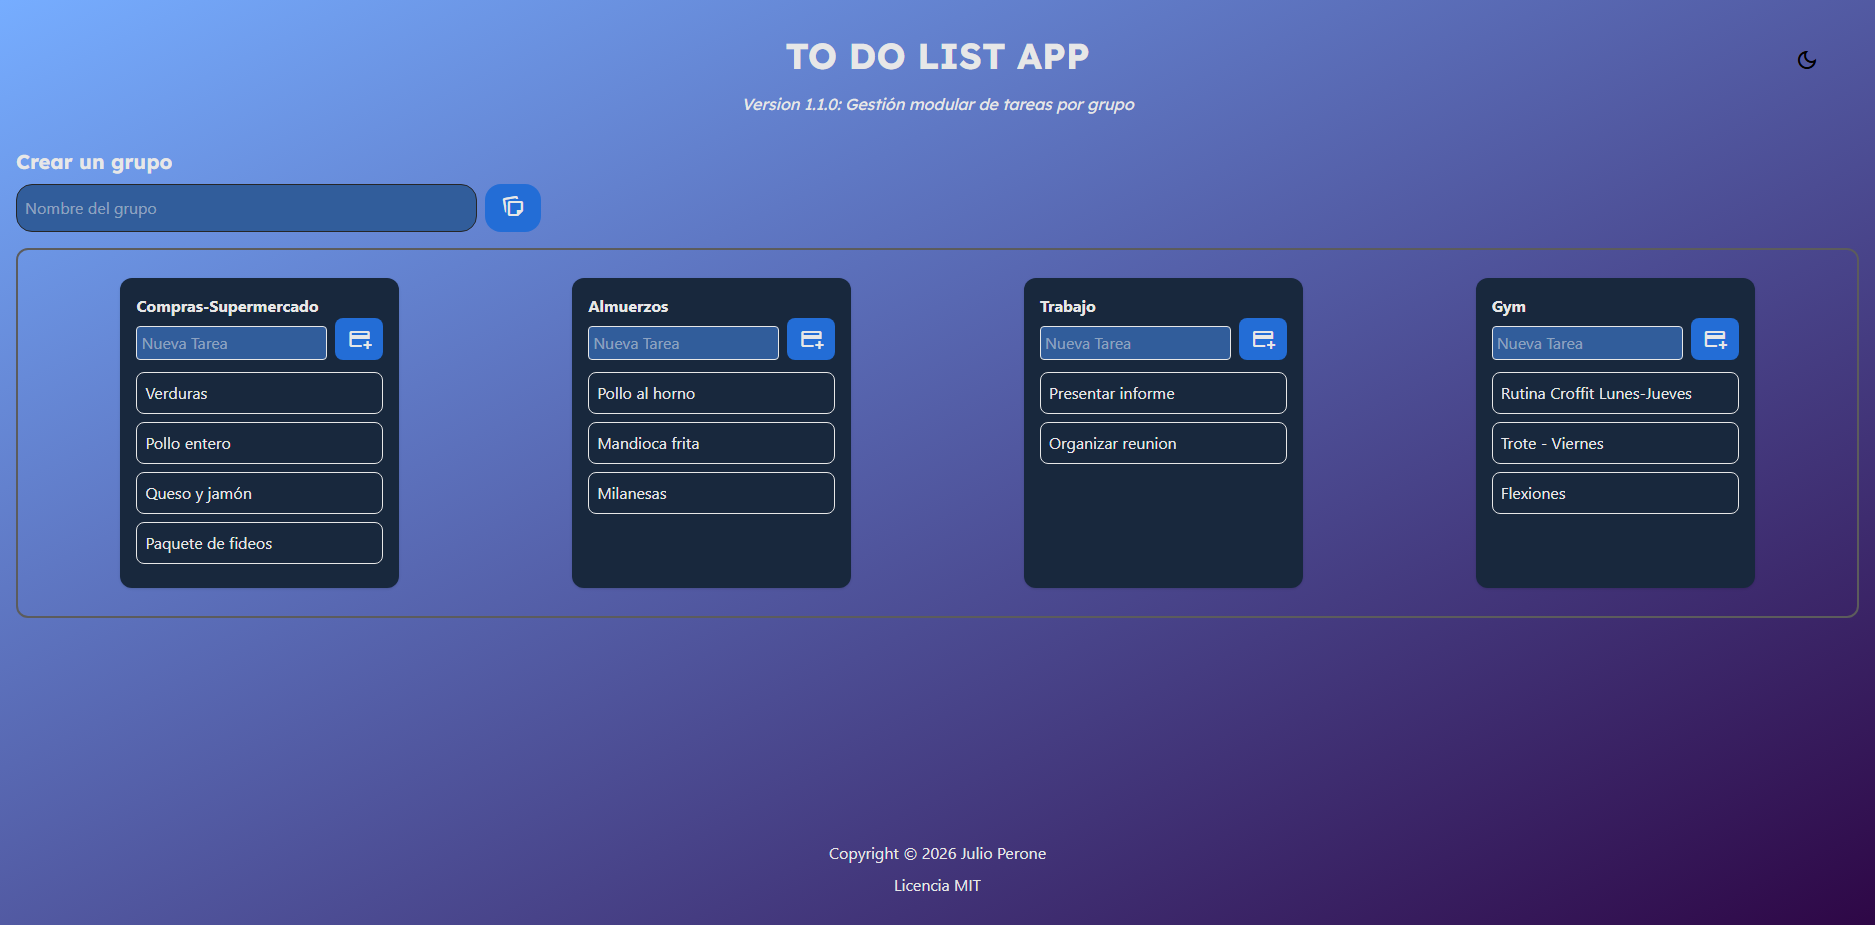
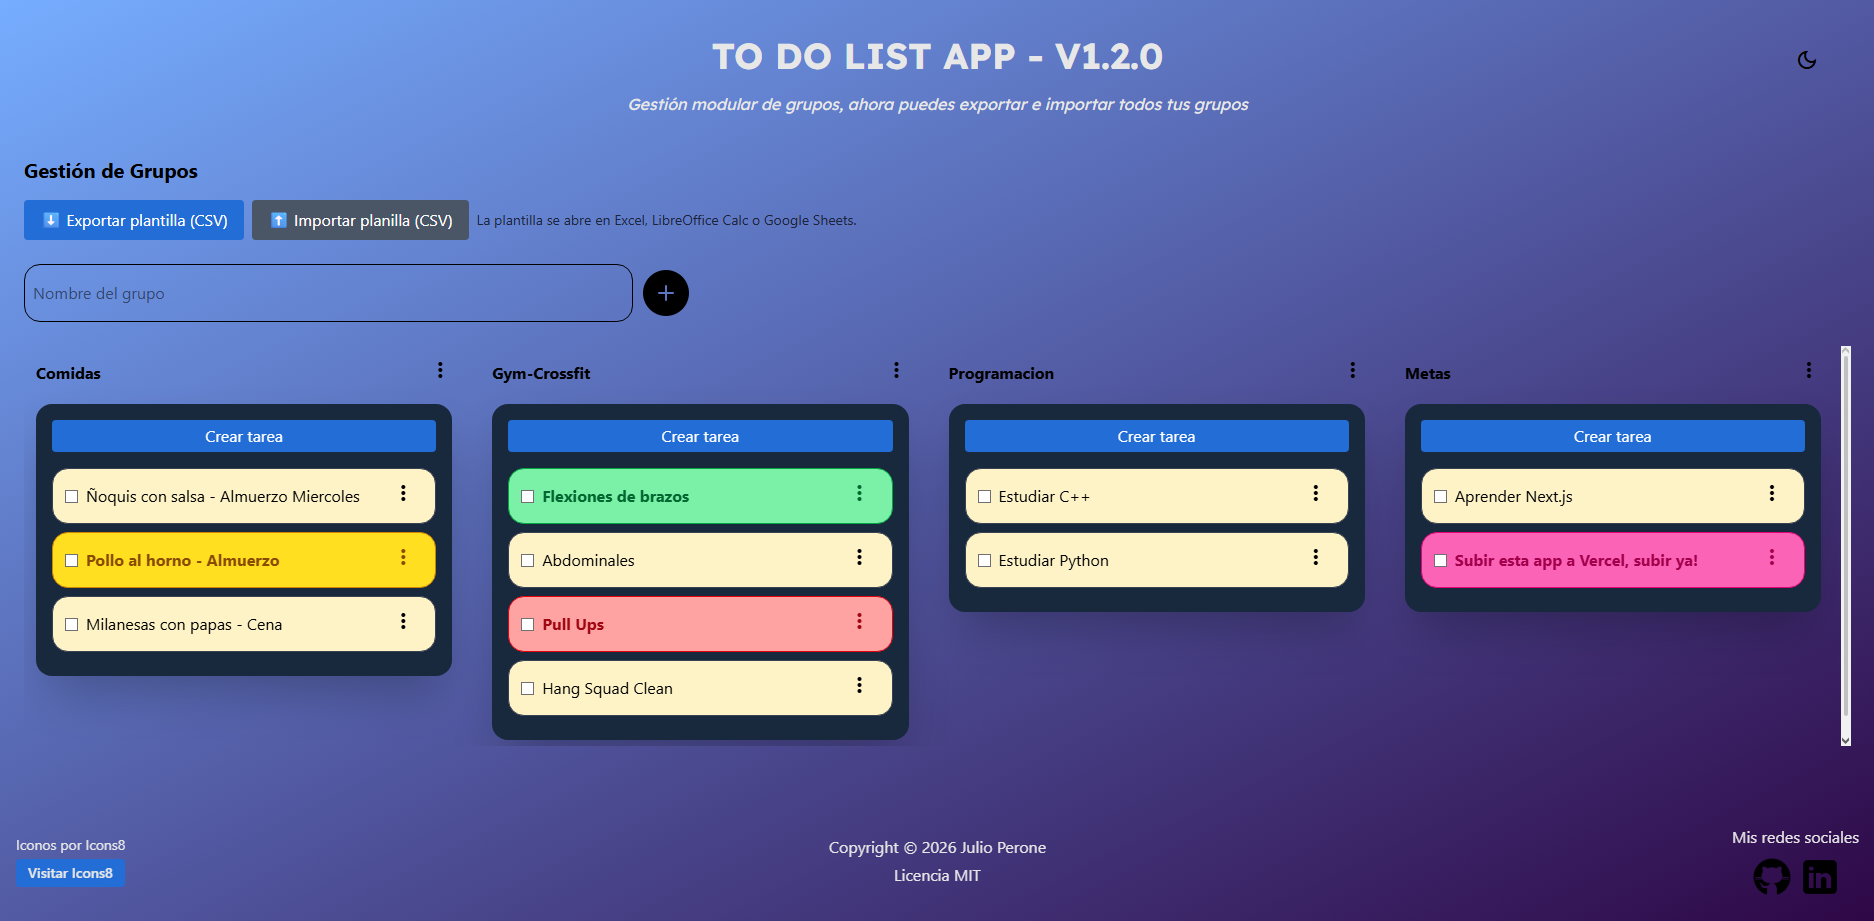
Docs v1.2.0: Header actualizado, Instalacion y uso + Roadmap v1.3.0

diff --git a/src/components/TaskItem.tsx b/src/components/TaskItem.tsx
@@ -1,3 +1,4 @@
+import { useState } from "react";
 import TaskMenu from "./TaskMenu";
 import type { Task, Group, TaskAction } from "../types/contracts";
 
@@ -17,15 +18,44 @@ const TaskItem = ({ task, groupId, groups, dispatchTasks }: Props) => {
         "very important": "bg-pink-400 border-pink-600 text-pink-800 font-bold",
     };
 
-    const styleClass = task.priority
-        ? priorityStyles[task.priority as keyof typeof priorityStyles]
-        : "task-default";
+    // Al completar, el gris neutro reemplaza el tono de la prioridad.
+    // Al desmarcar, vuelve automáticamente el color de la prioridad.
+    const completedStyle =
+        "bg-neutral-200 border-neutral-400 text-neutral-500";
+
+    const styleClass = task.completed
+        ? completedStyle
+        : task.priority
+          ? priorityStyles[task.priority as keyof typeof priorityStyles]
+          : "task-default";
+
+    const [isEditing, setIsEditing] = useState(false);
+    const [draft, setDraft] = useState(task.title);
+
+    const handleStartEdit = () => {
+        setDraft(task.title);
+        setIsEditing(true);
+    };
+
+    const handleSaveEdit = () => {
+        if (!draft.trim()) return;
+        dispatchTasks({
+            type: "EDIT_TASK",
+            payload: { groupId, taskId: task.id, title: draft.trim() },
+        });
+        setIsEditing(false);
+    };
+
+    const handleCancelEdit = () => {
+        setDraft(task.title);
+        setIsEditing(false);
+    };
 
     return (
         <div
             className={`flex items-center justify-between border rounded-2xl p-3 mb-2 transition-all duration-300 ease-in-out animate-fadeIn ${styleClass}`}
         >
-            <div className="flex items-center gap-2">
+            <div className="flex items-center gap-2 flex-1">
                 <input
                     type="checkbox"
                     checked={task.completed}
@@ -33,17 +63,47 @@ const TaskItem = ({ task, groupId, groups, dispatchTasks }: Props) => {
                         dispatchTasks({ type: "TOGGLE_TASK", payload: { groupId, taskId: task.id } })
                     }
                 />
-                <span className={`${task.completed ? "line-through opacity-60" : ""}`}>
-                    {task.title}
-                </span>
+                {isEditing ? (
+                    <>
+                        <input
+                            value={draft}
+                            autoFocus
+                            onChange={(e) => setDraft(e.target.value)}
+                            onKeyDown={(e) => {
+                                if (e.key === "Enter") handleSaveEdit();
+                                if (e.key === "Escape") handleCancelEdit();
+                            }}
+                            className="border rounded p-1 w-full text-black"
+                        />
+                        <button
+                            onClick={handleSaveEdit}
+                            className="surface-skin text-white px-2 py-1 rounded text-sm"
+                        >
+                            Guardar
+                        </button>
+                        <button
+                            onClick={handleCancelEdit}
+                            className="bg-gray-400 text-black px-2 py-1 rounded text-sm"
+                        >
+                            Cancelar
+                        </button>
+                    </>
+                ) : (
+                    <span className={`${task.completed ? "line-through decoration-2 opacity-70" : ""}`}>
+                        {task.title}
+                    </span>
+                )}
             </div>
 
-            <TaskMenu
-                task={task}
-                groupId={groupId}
-                groups={groups}
-                dispatchTasks={dispatchTasks}
-            />
+            {!isEditing && (
+                <TaskMenu
+                    task={task}
+                    groupId={groupId}
+                    groups={groups}
+                    dispatchTasks={dispatchTasks}
+                    onEdit={handleStartEdit}
+                />
+            )}
         </div>
     );
 };

diff --git a/src/components/TaskMenu.tsx b/src/components/TaskMenu.tsx
@@ -7,9 +7,10 @@ type Props = {
     groupId: string;
     groups: Group[];
     dispatchTasks: React.Dispatch<TaskAction>;
+    onEdit: () => void;
 };
 
-const TaskMenu = ({ task, groupId, groups, dispatchTasks }: Props) => {
+const TaskMenu = ({ task, groupId, groups, dispatchTasks, onEdit }: Props) => {
     const [open, setOpen] = useState(false);
     const [moveOpen, setMoveOpen] = useState(false);
     const [priorityOpen, setPriorityOpen] = useState(false);
@@ -36,10 +37,18 @@ const TaskMenu = ({ task, groupId, groups, dispatchTasks }: Props) => {
     };
 
     const handleSetPriority = (priority: "low" | "medium" | "high" | "very important") => {
-        dispatchTasks({
-            type: "SET_PRIORITY_TASK",
-            payload: { groupId, taskId: task.id, priority },
-        });
+        // Toggle: si ya tiene esa prioridad, se le quita y vuelve a normal
+        if (task.priority === priority) {
+            dispatchTasks({
+                type: "CLEAR_PRIORITY_TASK",
+                payload: { groupId, taskId: task.id },
+            });
+        } else {
+            dispatchTasks({
+                type: "SET_PRIORITY_TASK",
+                payload: { groupId, taskId: task.id, priority },
+            });
+        }
         setPriorityOpen(false);
         setOpen(false);
     };
@@ -155,14 +164,12 @@ const TaskMenu = ({ task, groupId, groups, dispatchTasks }: Props) => {
                        p-2 flex flex-col gap-2 animate-slideIn transition-all duration-200
                        overflow-visible"
                         >
-                            {/* Editar */}
+                            {/* Editar: cierra el menú y abre el input inline en la tarea */}
                             <button
-                                onClick={() =>
-                                    dispatchTasks({
-                                        type: "EDIT_TASK",
-                                        payload: { groupId, taskId: task.id, title: "Nuevo título" },
-                                    })
-                                }
+                                onClick={() => {
+                                    closeAll();
+                                    onEdit();
+                                }}
                                 className="flex items-center gap-2 w-full text-left px-2 py-1 hover:bg-neutral-700 rounded"
                             >
                                 <span className="material-symbols-outlined text-sm">edit</span>

diff --git a/src/components/Footer.tsx b/src/components/Footer.tsx
@@ -2,7 +2,7 @@
 const Footer = () => {
   return (
     <footer className="flex flex-col md:flex-row justify-between items-center gap-4 mb-3 p-4 text-skin">
-      {/* Izquierda: Icons8 link */}
+      
       <div className="flex flex-col items-center md:items-start gap-1 md:w-1/3">
         <p className="text-sm">Iconos por Icons8</p>
         <a
@@ -14,22 +14,22 @@ const Footer = () => {
         </a>
       </div>
 
-      {/* Centro: Copyright + Licencia */}
+      
       <div className="flex flex-col items-center gap-1 text-center md:w-1/3">
         <h1>Copyright © 2026 Julio Perone</h1>
         <p>Licencia MIT</p>
       </div>
 
-      {/* Derecha: Mis redes sociales */}
+      
       <div className="flex flex-col items-center md:items-end gap-2 md:w-1/3">
         <div className="flex flex-col items-center gap-2">
           <p className="text-center">Mis redes sociales</p>
           <div className="flex justify-center gap-2">
-            <a href="" target="_blank" aria-label="Github">
+            <a href="https://github.com/JulioPerone" target="_blank" rel="noopener noreferrer" aria-label="Github">
               <img src="https://img.icons8.com/?size=100&id=12599&format=png&color=000000"
               width="40" height="40" alt="Github icon" />
             </a>
-            <a href="" target="_blank" aria-label="LinkedIn">
+            <a href="https://www.linkedin.com/in/julio-josé-perone-rocholl-341188348" target="_blank" rel="noopener noreferrer" aria-label="LinkedIn">
               <img src="https://img.icons8.com/?size=100&id=8808&format=png&color=000000"
               width="40" height="40" alt="LinkedIn icon" />
             </a>

diff --git a/src/hooks/useTasksReducer.ts b/src/hooks/useTasksReducer.ts
@@ -46,6 +46,9 @@ const useTasksReducer = (state: TasksState, action: TaskAction): TasksState => {
         case "MOVE_TASK": {
             const { fromGroupId, toGroupId, taskId } = action.payload;
 
+            // Mover al mismo grupo: no hacer nada (evita duplicar)
+            if (fromGroupId === toGroupId) return state;
+
             // Buscar la tarea en el grupo origen
             const taskToMove = state[fromGroupId]?.find(t => t.id === taskId);
             if (!taskToMove) return state;
@@ -69,6 +72,17 @@ const useTasksReducer = (state: TasksState, action: TaskAction): TasksState => {
                 [action.payload.groupId]: (state[action.payload.groupId] || []).map(t =>
                     t.id === action.payload.taskId ? { ...t, priority: action.payload.priority } : t
                 )
+            };
+
+        case "CLEAR_PRIORITY_TASK":
+            return {
+                ...state,
+                [action.payload.groupId]: (state[action.payload.groupId] || []).map(t => {
+                    if (t.id !== action.payload.taskId) return t;
+                    const next = { ...t };
+                    delete next.priority;
+                    return next;
+                })
             };
 
         case "DELETE_GROUP_TASKS": {

diff --git a/src/context/ThemeProvider.tsx b/src/context/ThemeProvider.tsx
@@ -3,12 +3,26 @@
 import { useState, useEffect } from "react"
 import { ThemeContext } from "./ThemeContext"
 import type { Theme } from "../types/ThemeType"
+import { loadJSON, saveJSON, STORAGE_KEYS } from "../utils/storage"
+
+const isTheme = (value: unknown): value is Theme =>
+    value === "light" || value === "dark";
+
+const loadTheme = (): Theme => {
+    const stored = loadJSON<unknown>(STORAGE_KEYS.theme, "light");
+    return isTheme(stored) ? stored : "light";
+};
 
 const ThemeProvider = ({ children }: { children: React.ReactNode }) => {
 
-    const [theme, setTheme] = useState<Theme>("light")
+    const [theme, setTheme] = useState<Theme>(loadTheme)
 
     const toggleTheme = () => setTheme(theme === "light" ? "dark" : "light");
+
+    // Persiste el tema para que sobreviva al refrescar
+    useEffect(() => {
+        saveJSON(STORAGE_KEYS.theme, theme);
+    }, [theme]);
 
     // Aplica o remueve la clase "dark" en el <html> según el estado actual del tema
     useEffect(() => {

diff --git a/index.html b/index.html
@@ -3,6 +3,15 @@
 
 <head>
   <meta charset="UTF-8" />
+  <script>
+    // Aplica el tema guardado ANTES del primer pintado para evitar
+    // el parpadeo light -> dark al recargar (debe coincidir con STORAGE_KEYS.theme).
+    try {
+      if (localStorage.getItem("todolist.theme.v1") === '"dark"') {
+        document.documentElement.classList.add("dark");
+      }
+    } catch (e) { /* LocalStorage no disponible: se queda en light */ }
+  </script>
   <meta name="description" content="Task Manager app para crear, organizar y gestionar tareas de forma simple y rápida.">
   <meta name="keywords" content="task manager, gestor de tareas, productividad, organización, React, TypeScript">
   <meta name="author" content="Julio Perone">

diff --git a/src/components/Header.tsx b/src/components/Header.tsx
@@ -6,8 +6,8 @@ const Header = () => {
     return (
         <div className="relative flex flex-col 
         justify-center items-center gap-4 mt-5 p-4">
-            <h1 className="font-lexend font-bold  text-skin text-4xl uppercase">To Do List App</h1>
-            <p className="font-lexend italic text-skin">Version 1.2.0: Gestión modular de tareas por grupo</p>
+            <h1 className="font-lexend font-bold  text-skin text-4xl uppercase">To Do List App - v1.2.0</h1>
+            <p className="font-lexend italic text-skin">Gestión modular de grupos, ahora puedes exportar e importar todos tus grupos</p>
             <DarkLightTheme />
         </div>
     )

diff --git a/src/types/contracts.ts b/src/types/contracts.ts
@@ -32,6 +32,7 @@ export type TaskAction =
 | { type: "TOGGLE_TASK"; payload: { groupId: string; taskId: string }}
 | { type: "MOVE_TASK"; payload: { fromGroupId: string; toGroupId: string; taskId: string }}
 | { type: "SET_PRIORITY_TASK"; payload: { groupId: string; taskId: string; priority: "low" | "medium" | "high" | "very important" }}
+| { type: "CLEAR_PRIORITY_TASK"; payload: { groupId: string; taskId: string }}
 | { type: "DELETE_GROUP_TASKS"; payload: { groupId: string } }
 | { type: "HYDRATE_TASKS"; payload: { tasks: Record<string, Task[]> } }
 | { type: "SET_TASKS"; payload: { tasks: Record<string, Task[]> } }

diff --git a/src/components/TaskManager.tsx b/src/components/TaskManager.tsx
@@ -30,7 +30,7 @@ const TaskManager = ({ groupId, groups }: { groupId: string; groups: Group[] }) 
                         value={newTaskTitle}
                         onChange={(e) => setNewTaskTitle(e.target.value)}
                         placeholder="Nombre de tarea"
-                        className="border rounded p-2 w-full"
+                        className="border rounded p-2 w-full input-skin"
                     />
                     <div className="flex gap-2">
                         <button

diff --git a/src/globals.css b/src/globals.css
@@ -6,7 +6,7 @@
   --accent-color: #ffe816;
   --surface-color: #dd8819;
   --inner-color: #ffda89;
-  --input-field: #fffcee;
+  --input-field: #fff6cd;
   --hover-color: #e6bc4c;
   --task-bg-default: #fef3c7;
 }
@@ -18,7 +18,7 @@
   --accent-color: #226bc5;
   --surface-color: #236dd6;
   --inner-color: #18283d;
-  --input-field: #315d9b;
+  --input-field: #5b82b8;
   --hover-color: #4585df;
   --task-border-default: #374151;
 }

diff --git a/src/utils/storage.ts b/src/utils/storage.ts
@@ -1,6 +1,7 @@
 export const STORAGE_KEYS = {
   groups: "todolist.groups.v1",
   tasks: "todolist.tasks.v1",
+  theme: "todolist.theme.v1",
 } as const;
 
 export function loadJSON<T>(key: string, fallback: T): T {

diff --git a/src/types/ThemeType.ts b/src/types/ThemeType.ts
@@ -1,0 +1,1 @@
+export type Theme = "light" | "dark"
